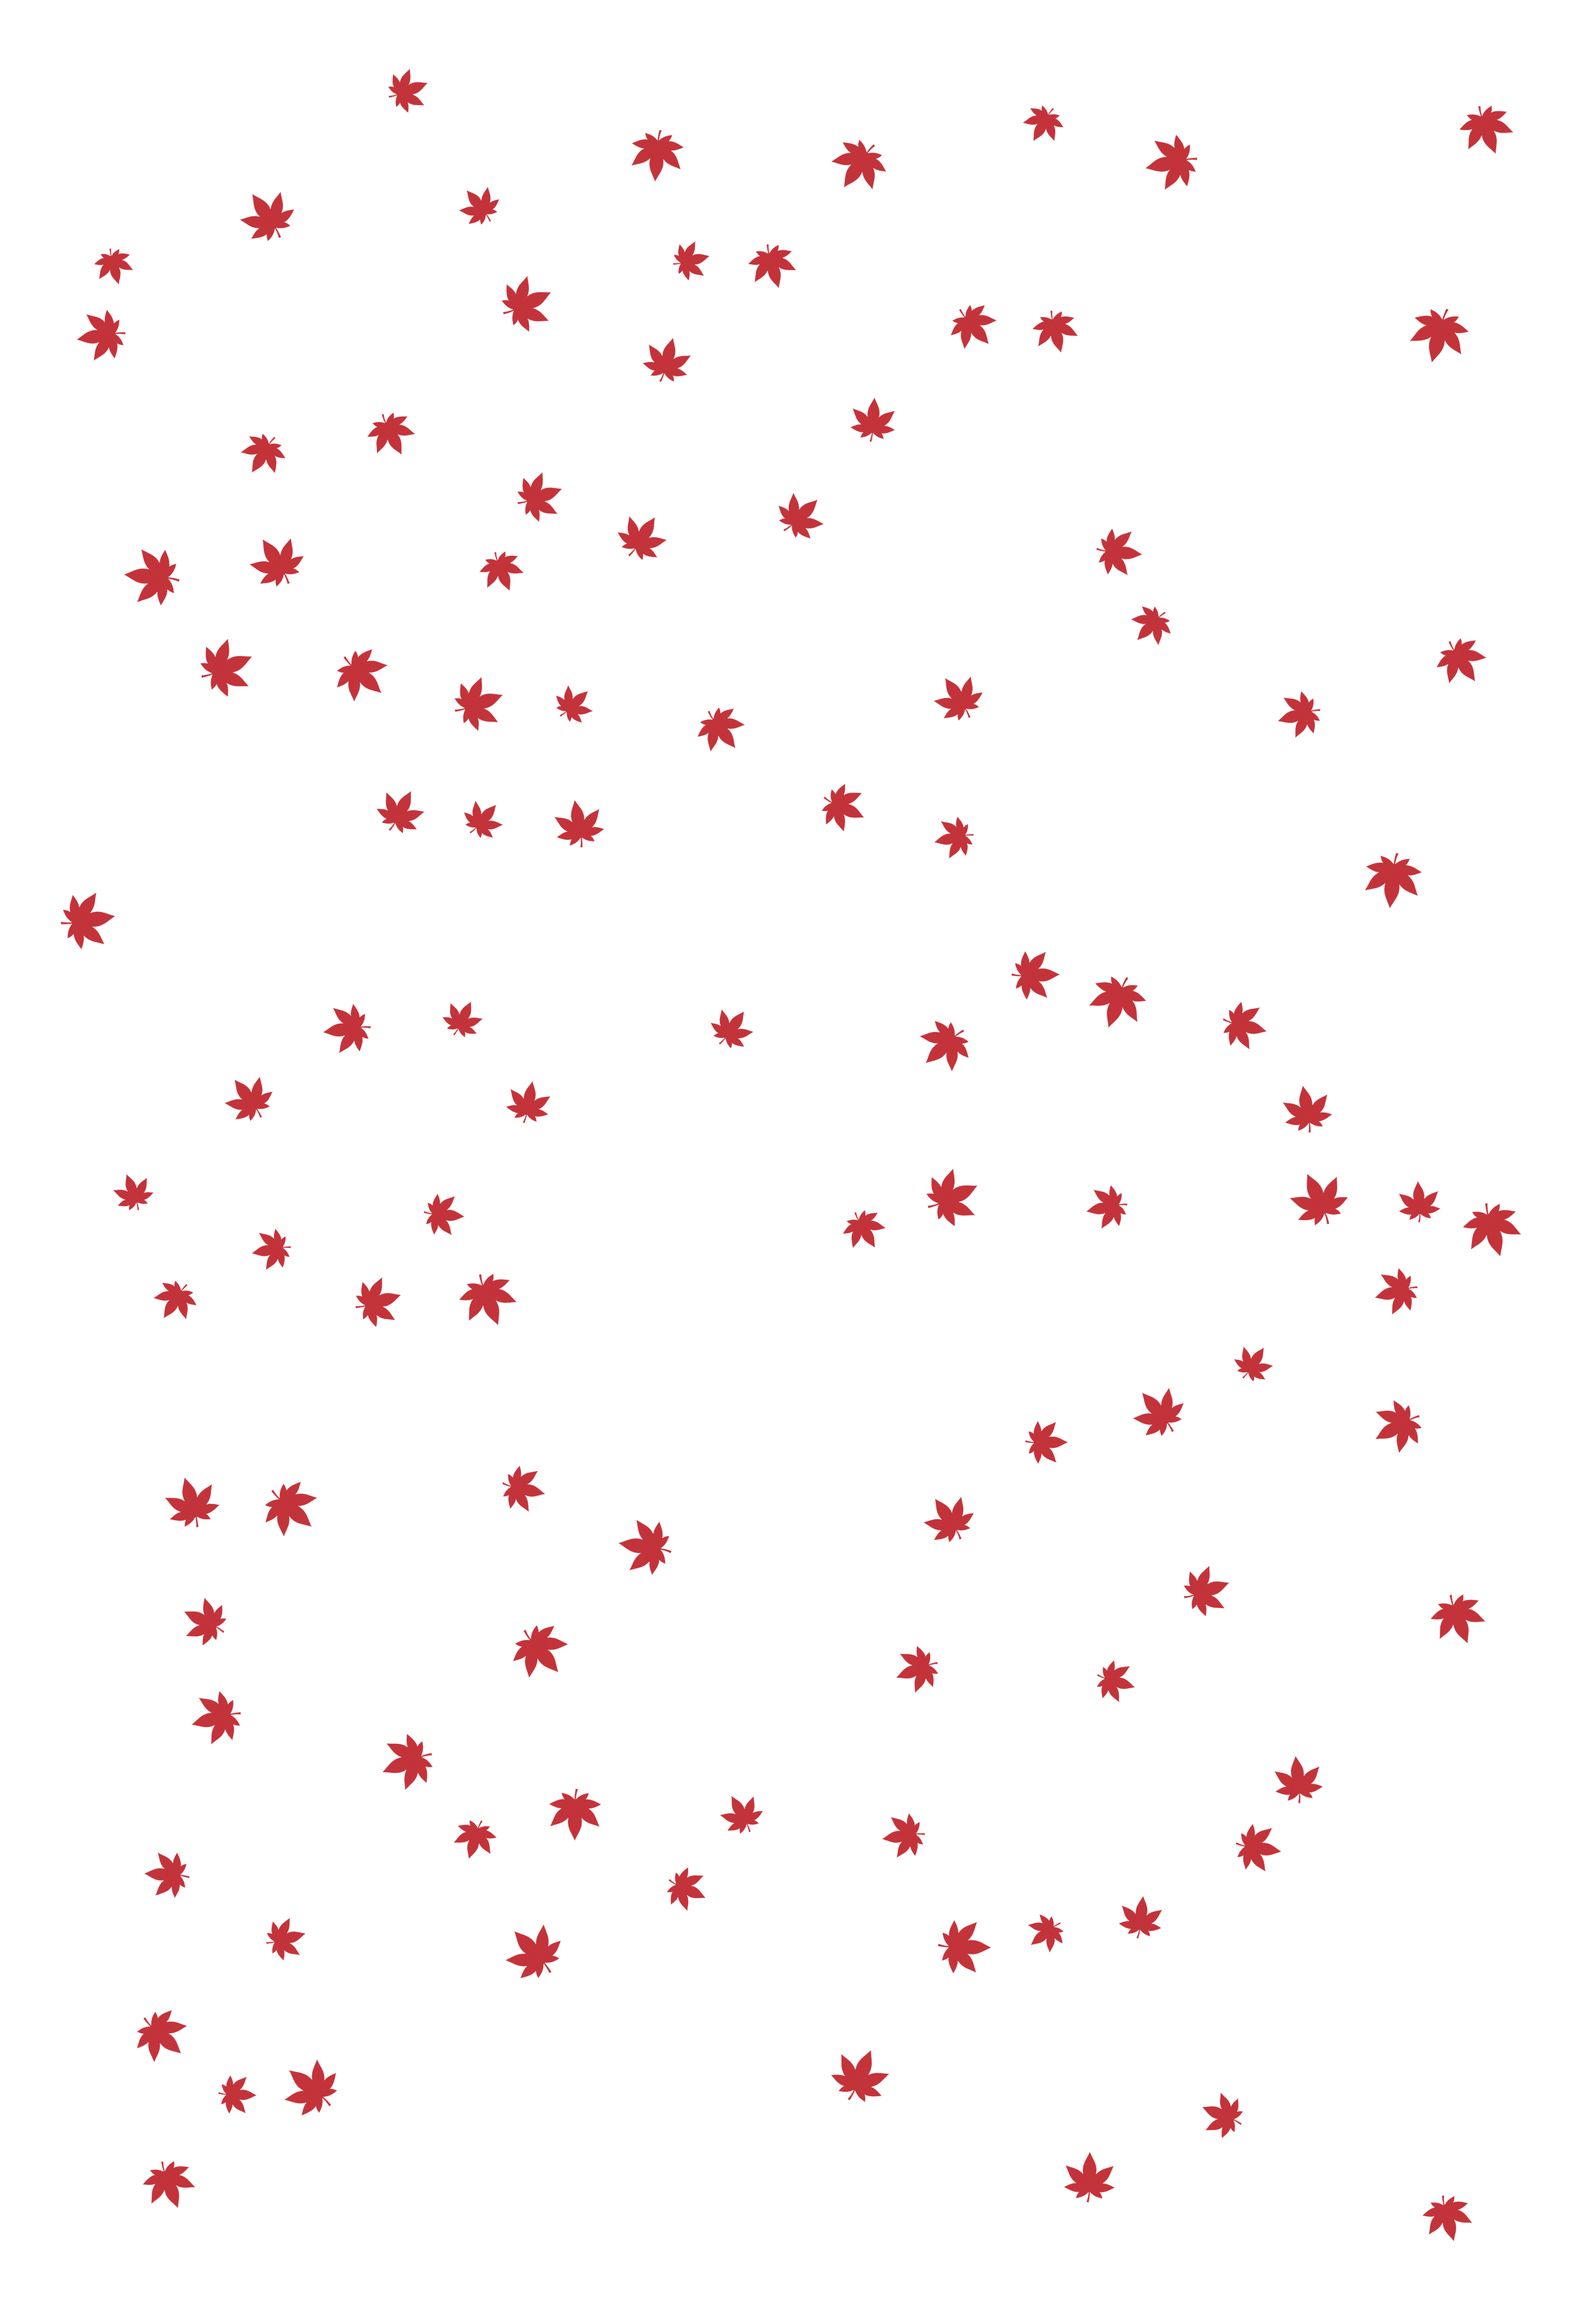
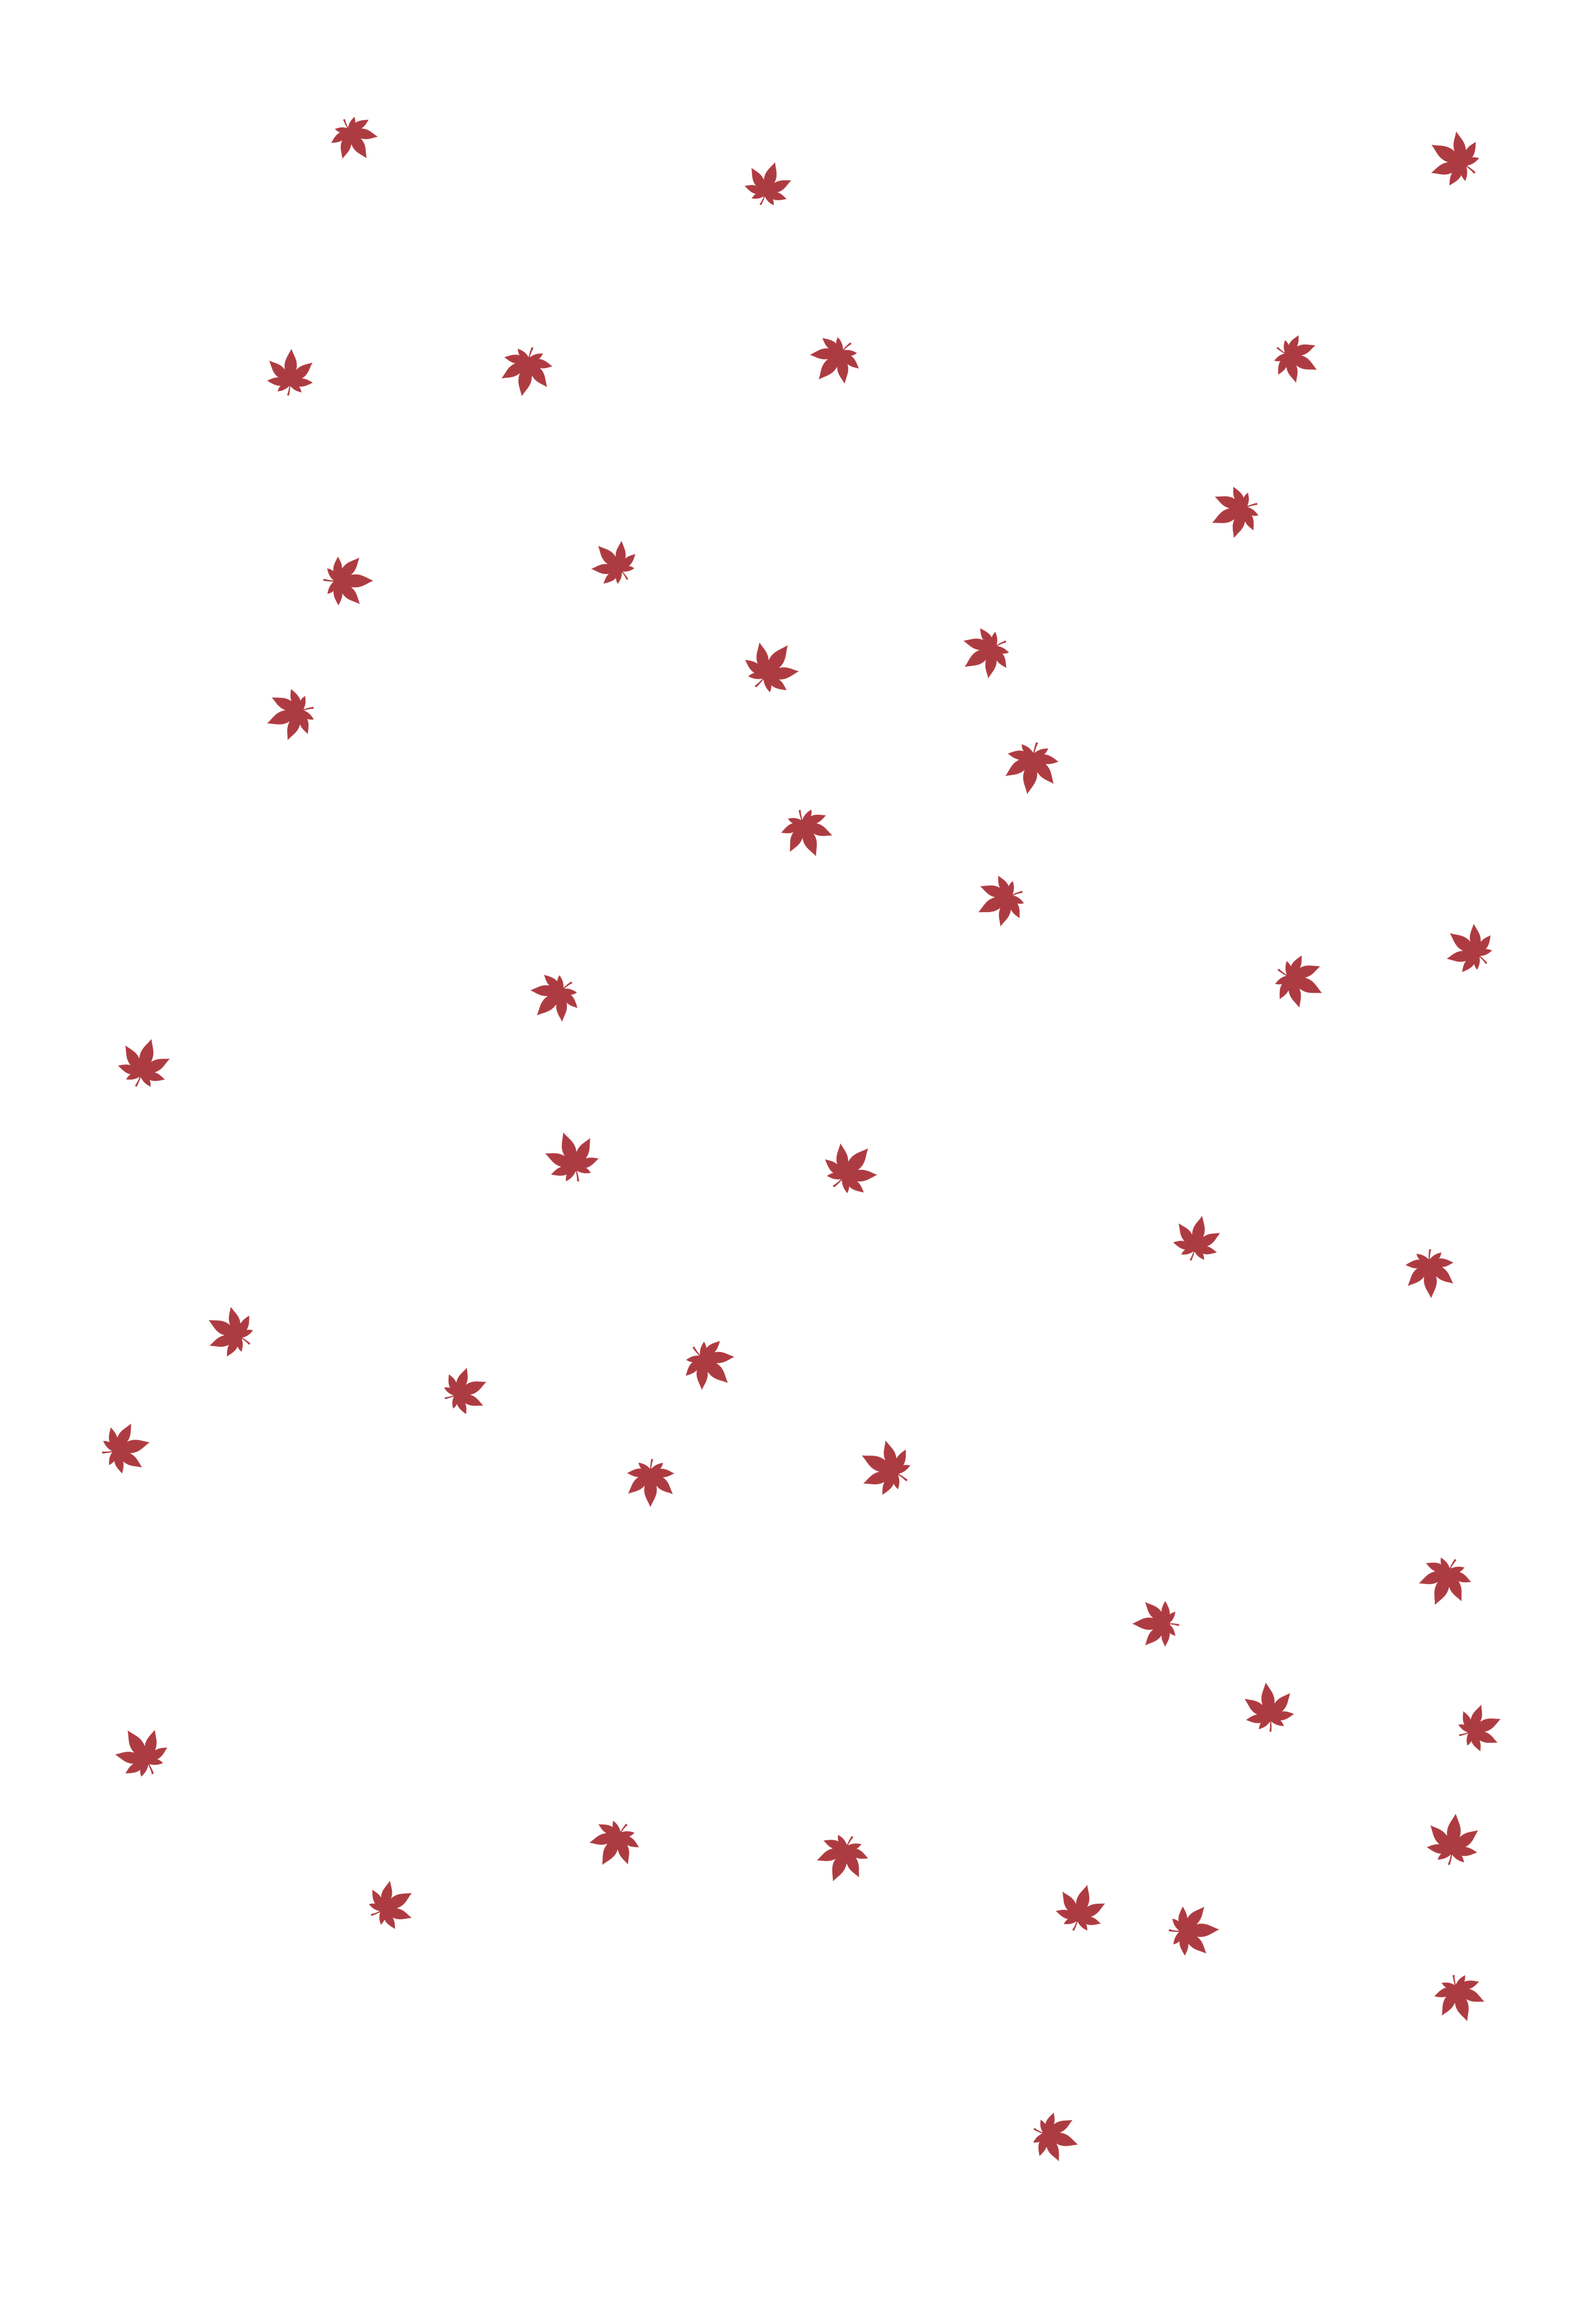
Space out season backgrounds and keep their original proportions.
Background motifs stay easier to see than the lighter falling pieces.

diff --git a/index.html b/index.html
@@ -9,12 +9,12 @@
     <link rel="preconnect" href="https://fonts.gstatic.com" crossorigin>
     <link href="https://fonts.googleapis.com/css2?family=Do+Hyeon&display=swap" rel="stylesheet">
     <link rel="stylesheet" href="https://cdn.jsdelivr.net/npm/swiper@11/swiper-bundle.min.css">
-    <link rel="stylesheet" href="css/style.css?v=scroll2">
+    <link rel="stylesheet" href="css/style.css?v=space1">
     <script src="js/games-config.js"></script>
 </head>
 <body>
 <script src="js/theme-schedule.js"></script>
-<script src="js/theme.js?v=scroll2"></script>
+<script src="js/theme.js?v=space1"></script>
 
 <header class="main-header">
     <div class="header-container">

diff --git a/admin/index.html b/admin/index.html
@@ -5,12 +5,12 @@
     <meta name="viewport" content="width=device-width, initial-scale=1.0">
     <title>테마 관리 | 울림게임즈</title>
     <link rel="icon" href="../images/ullimgames_logo.png" type="image/png">
-    <link rel="stylesheet" href="../css/style.css?v=scroll2">
+    <link rel="stylesheet" href="../css/style.css?v=space1">
 </head>
 <body>
 <script src="../js/theme-schedule.js"></script>
 <script src="../js/admin-lock.js"></script>
-<script src="../js/theme.js?v=scroll2"></script>
+<script src="../js/theme.js?v=space1"></script>
 
 <main class="admin-main">
     <section id="adminGate" class="admin-card">

diff --git a/js/theme.js b/js/theme.js
@@ -106,8 +106,8 @@
                 bit.style.setProperty("--spin", Math.round(80 + Math.random() * 200) + "deg");
                 bit.style.setProperty("--size", Math.round(range[0] + Math.random() * (range[1] - range[0])) + "px");
                 bit.style.opacity = spec.faint
-                    ? (0.34 + Math.random() * 0.16).toFixed(2)
-                    : (0.58 + Math.random() * 0.22).toFixed(2);
+                    ? (0.20 + Math.random() * 0.12).toFixed(2)
+                    : (0.32 + Math.random() * 0.14).toFixed(2);
                 layer.appendChild(bit);
             }
             front.appendChild(layer);

diff --git a/privacy.html b/privacy.html
@@ -5,11 +5,11 @@
     <meta name="viewport" content="width=device-width, initial-scale=1.0">
     <title>개인정보 처리방침 | 울림게임즈</title>
     <link rel="stylesheet" href="https://cdn.jsdelivr.net/npm/swiper@11/swiper-bundle.min.css">
-    <link rel="stylesheet" href="css/style.css?v=scroll2">
+    <link rel="stylesheet" href="css/style.css?v=space1">
 </head>
 <body>
 <script src="js/theme-schedule.js"></script>
-<script src="js/theme.js?v=scroll2"></script>
+<script src="js/theme.js?v=space1"></script>
 
 <header class="main-header">
     <div class="header-container">

diff --git a/terms.html b/terms.html
@@ -5,11 +5,11 @@
     <meta name="viewport" content="width=device-width, initial-scale=1.0">
     <title>이용약관 | 울림게임즈</title>
     <link rel="stylesheet" href="https://cdn.jsdelivr.net/npm/swiper@11/swiper-bundle.min.css">
-    <link rel="stylesheet" href="css/style.css?v=scroll2">
+    <link rel="stylesheet" href="css/style.css?v=space1">
 </head>
 <body>
 <script src="js/theme-schedule.js"></script>
-<script src="js/theme.js?v=scroll2"></script>
+<script src="js/theme.js?v=space1"></script>
 
 <header class="main-header">
     <div class="header-container">

diff --git a/play/fruit-valley/index.html b/play/fruit-valley/index.html
@@ -8,7 +8,7 @@
     <link rel="preconnect" href="https://fonts.googleapis.com">
     <link rel="preconnect" href="https://fonts.gstatic.com" crossorigin>
     <link href="https://fonts.googleapis.com/css2?family=Do+Hyeon&display=swap" rel="stylesheet">
-    <link rel="stylesheet" href="../../css/style.css?v=scroll2">
+    <link rel="stylesheet" href="../../css/style.css?v=space1">
 </head>
 <body class="play-page">
 

diff --git a/css/style.css b/css/style.css
@@ -1609,7 +1609,7 @@ body.season-sheet::before {
     background-image: var(--season-sheet);
     background-repeat: repeat;
     background-position: left top;
-    opacity: 0.86;
+    opacity: 0.78;
 }
 
 .season-pin-back {
